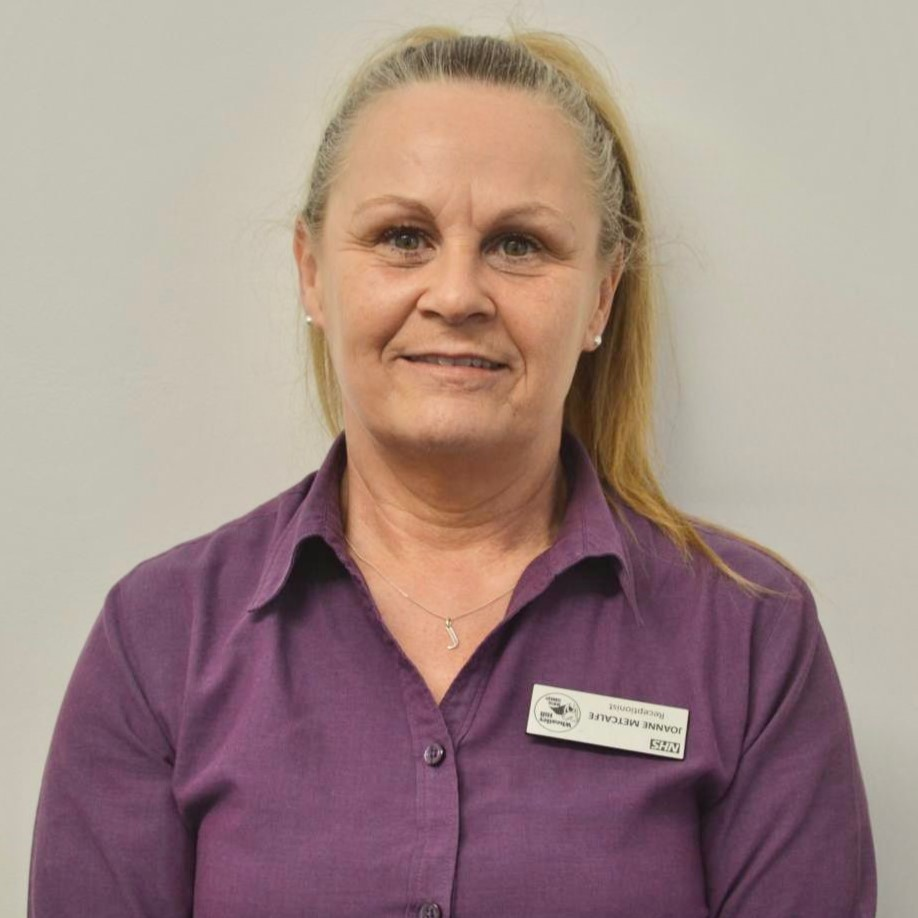
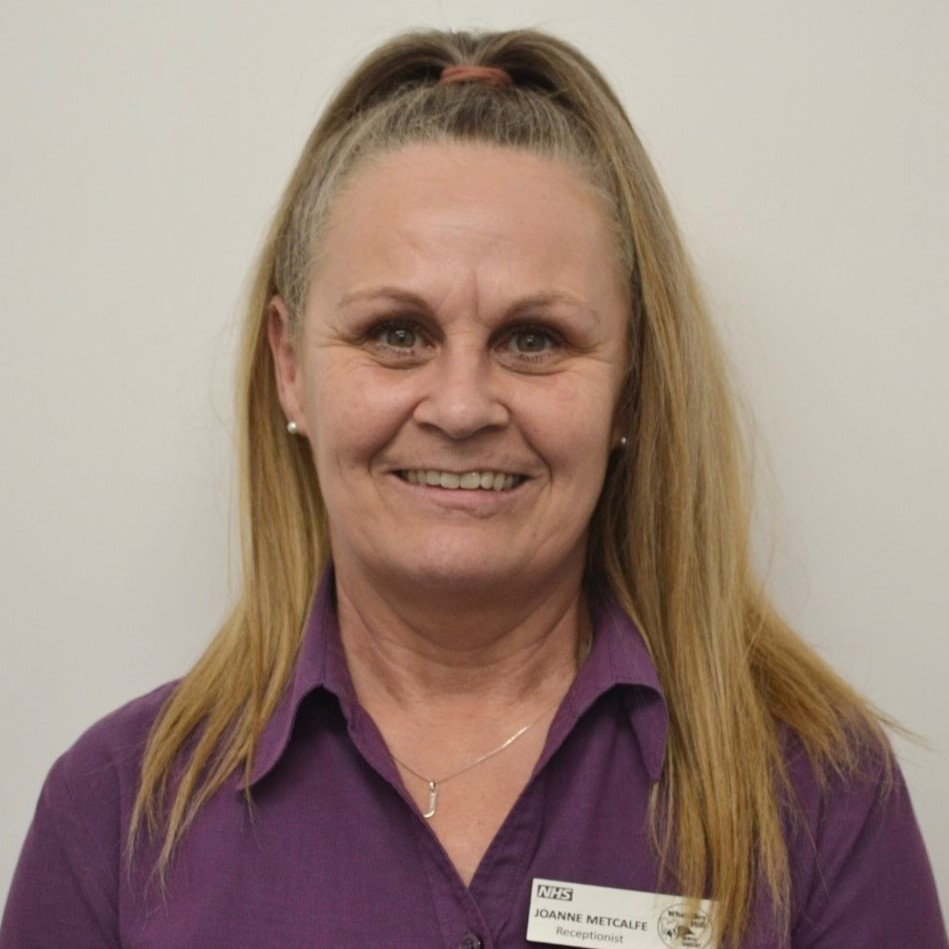
new update photo

diff --git a/src/Pages/Profile.jsx b/src/Pages/Profile.jsx
@@ -4,7 +4,7 @@ import { Carousel } from 'primereact/carousel';
 import staff1 from './images/Staffs/image_5.png';
 import staff2 from './images/Staffs/image_6.png';
 import staff3 from './images/Staffs/image_4.jpeg';
-import staff4 from './images/Staffs/nonamewhds.jpg';
+import staff4 from './images/Staffs/image_9.jpeg';
 import staff5 from './images/Staffs/image_2.jpeg';
 import staff6 from './images/Staffs/shona.jpeg';
 import staff7 from './images/Staffs/image_1.jpeg';
